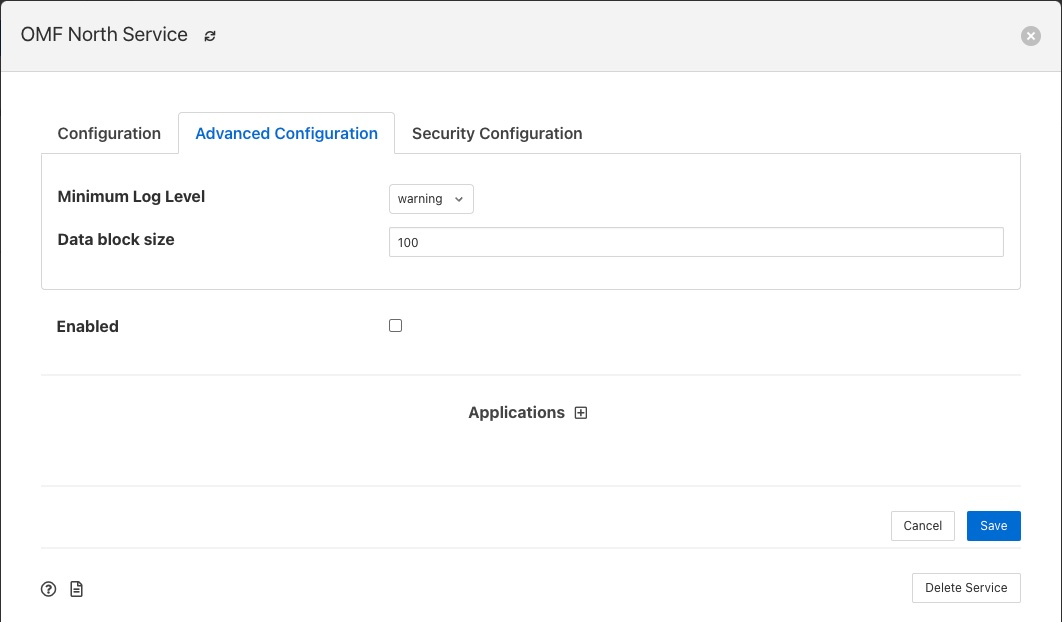
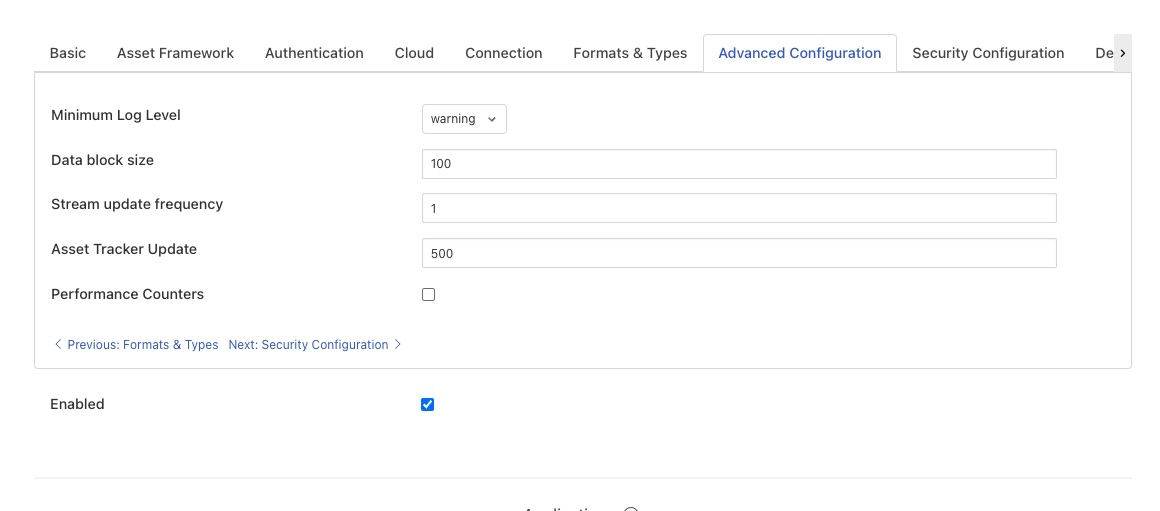
FOGL-8779 Tne the updating of the streams table

diff --git a/C/services/north/data_load.cpp b/C/services/north/data_load.cpp
@@ -58,6 +58,7 @@ DataLoad::~DataLoad()
 		m_pipeline->cleanupFilters(m_name);
 		delete m_pipeline;
 	}
+	flushLastSentId();
 	// Clear out the queue of readings
 	unique_lock<mutex> lck(m_qMutex);	// Should not need to do this
 	while (! m_queue.empty())
@@ -200,7 +201,7 @@ void DataLoad::readBlock(unsigned int blockSize)
 			if (m_perfMonitor)
 			{
 				m_perfMonitor->collect("No of waits for data", n_waits);
-				m_perfMonitor->collect("Block utilisation %", (readings->getCount() * 100) / blockSize);
+				m_perfMonitor->collect("Block utilisation %", (long)((readings->getCount() * 100) / blockSize));
 			}
 			return;
 		}
@@ -357,12 +358,12 @@ void DataLoad::bufferReadings(ReadingSet *readings)
 	m_queue.push_back(readings);
 	if (m_perfMonitor)
 	{
-		m_perfMonitor->collect("Readings added to buffer", readings->getCount());
-		m_perfMonitor->collect("Reading sets buffered", m_queue.size());
-		long i = 0;
+		m_perfMonitor->collect("Readings added to buffer", (long)(readings->getCount()));
+		m_perfMonitor->collect("Reading sets buffered", (long)(m_queue.size()));
+		unsigned long i = 0;
 		for (auto& set : m_queue)
 			i += set->getCount();
-		m_perfMonitor->collect("Total readings buffered", i);
+		m_perfMonitor->collect("Total readings buffered", (long)i);
 	}
 	Logger::getLogger()->debug("Buffered %d readings for north processing", readings->getCount());
 	m_fetchCV.notify_all();
@@ -449,11 +450,24 @@ InsertValues streamValues;
  */
 void DataLoad::updateLastSentId(unsigned long id)
 {
+	m_streamSent = id;
+	if (m_nextStreamUpdate-- <= 0)
+	{
+		flushLastSentId();
+		m_nextStreamUpdate = m_streamUpdate;
+	}
+}
+
+/**
+ * Flush the last sent Id to the storeage layer
+ */
+void DataLoad::flushLastSentId()
+{
 	const Condition condition(Equals);
 	Where where("id", condition, to_string(m_streamId));
 	InsertValues lastId;
 
-	lastId.push_back(InsertValue("last_object", (long)id));
+	lastId.push_back(InsertValue("last_object", (long)m_streamSent));
 	m_storage->updateTable("streams", lastId, where);
 }
 

diff --git a/C/services/north/north.cpp b/C/services/north/north.cpp
@@ -491,6 +491,17 @@ void NorthService::start(string& coreAddress, unsigned short corePort)
 				m_dataLoad->setBlockSize(newBlock);
 			}
 		}
+		if (m_configAdvanced.itemExists("streamUpdate"))
+		{
+			unsigned long newStreamUpdate = strtoul(
+						m_configAdvanced.getValue("streamUpdate").c_str(),
+						NULL,
+						10);
+			if (newStreamUpdate > 0)
+			{
+				m_dataLoad->setStreamUpdate(newStreamUpdate);
+			}
+		}
 		if (m_configAdvanced.itemExists("assetTrackerInterval"))
 		{
 			unsigned long interval  = strtoul(
@@ -835,6 +846,17 @@ void NorthService::configChange(const string& categoryName, const string& catego
 				m_dataLoad->setBlockSize(newBlock);
 			}
 		}
+		if (m_configAdvanced.itemExists("streamUpdate"))
+		{
+			unsigned long newStreamUpdate = strtoul(
+						m_configAdvanced.getValue("streamUpdate").c_str(),
+						NULL,
+						10);
+			if (newStreamUpdate > 0)
+			{
+				m_dataLoad->setStreamUpdate(newStreamUpdate);
+			}
+		}
 		if (m_configAdvanced.itemExists("assetTrackerInterval"))
 		{
 			unsigned long interval  = strtoul(
@@ -955,6 +977,13 @@ void NorthService::addConfigDefaults(DefaultConfigCategory& defaultConfig)
 		std::to_string(DEFAULT_BLOCK_SIZE),
 		std::to_string(DEFAULT_BLOCK_SIZE));
 	defaultConfig.setItemDisplayName("blockSize", "Data block size");
+	// Add streams update configuration item
+	defaultConfig.addItem("streamUpdate",
+		"Set the number of blocks to be sent before updating the stream location in the storage layer.",
+		"integer",
+		std::to_string(1),
+		std::to_string(1));
+	defaultConfig.setItemDisplayName("streamUpdate", "Stream update frequency");
 	defaultConfig.addItem("assetTrackerInterval",
 			"Number of milliseconds between updates of the asset tracker information",
 			"integer", std::to_string(MIN_ASSET_TRACKER_UPDATE),

diff --git a/C/services/north/include/data_load.h b/C/services/north/include/data_load.h
@@ -31,6 +31,7 @@ class DataLoad : public ServiceHandler {
 		bool			setDataSource(const std::string& source);
 		void			triggerRead(unsigned int blockSize);
 		void			updateLastSentId(unsigned long id);
+		void			flushLastSentId();
 		ReadingSet		*fetchReadings(bool wait);
 		static void		passToOnwardFilter(OUTPUT_HANDLE *outHandle,
 						READINGSET* readings);
@@ -46,6 +47,11 @@ class DataLoad : public ServiceHandler {
 		void			setBlockSize(unsigned long blockSize)
 					{
 						m_blockSize = blockSize;
+					};
+		void			setStreamUpdate(unsigned long streamUpdate)
+					{
+						m_streamUpdate = streamUpdate;
+						m_nextStreamUpdate = streamUpdate;
 					};
 		void			setPerfMonitor(PerformanceMonitor *perfMonitor) { m_perfMonitor = perfMonitor; };
 		const std::string	&getName() { return m_name; };
@@ -81,5 +87,8 @@ class DataLoad : public ServiceHandler {
 		std::mutex		m_pipelineMutex;
 		unsigned long		m_blockSize;
 		PerformanceMonitor	*m_perfMonitor;
+		int			m_streamUpdate;
+		unsigned long		m_streamSent;
+		int			m_nextStreamUpdate;
 };
 #endif

diff --git a/docs/tuning_fledge.rst b/docs/tuning_fledge.rst
@@ -188,6 +188,8 @@ In a similar way to the south services, north services and tasks also have advan
 
   - *Data block size* - This defines the number of readings that will be sent to the north plugin for each call to the *plugin_send* entry point. This allows the performance of the north data pipeline to be adjusted, with larger blocks sizes increasing the performance, by reducing overhead, but at the cost of requiring more memory in the north service or task to buffer the data as it flows through the pipeline. Setting this value too high may cause issues for certain of the north plugins that have limitations on the number of messages they can handle within a single block.
 
+  - *Stream update frequency* - This controls how frequently the north service updates the current position it has reached in the stream of data it is sending north. The value is expressed as a number of data blocks between updates. Increasing this value will write the position to the storage less frequently, increasing the performance. However in the event of a failure data in the stream may be repeated for this number of blocks.
+
   - *Asset Tracker Update* - This control how frequently the asset tracker flushes the cache of asset tracking information to the storage layer. It is a value expressed in milliseconds. The asset tracker only write updates, therefore if you have a fixed set of assets flowing in a pipeline the asset tracker will only write any data the first time each asset is seen and will then perform no further writes. If you have variablility in your assets or asset structure the asset tracker will be more active and it becomes more useful to tune this parameter.
 
   - *Performance Counters* - This option allows for collection of performance counters that can be use to help tune the north service.
